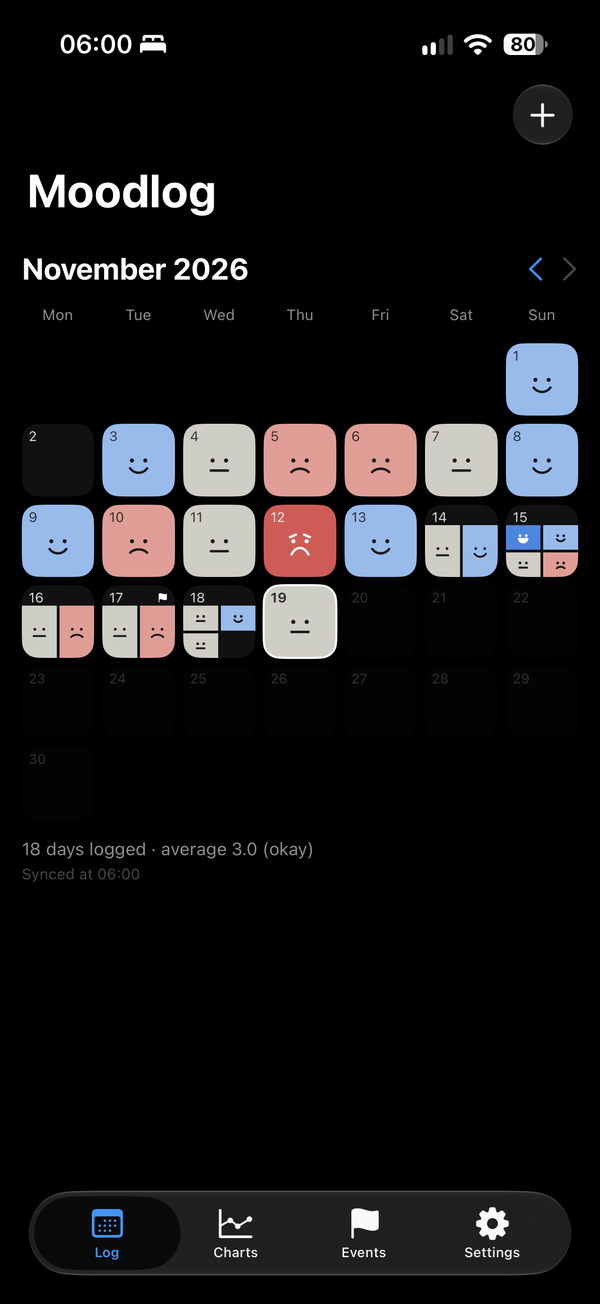
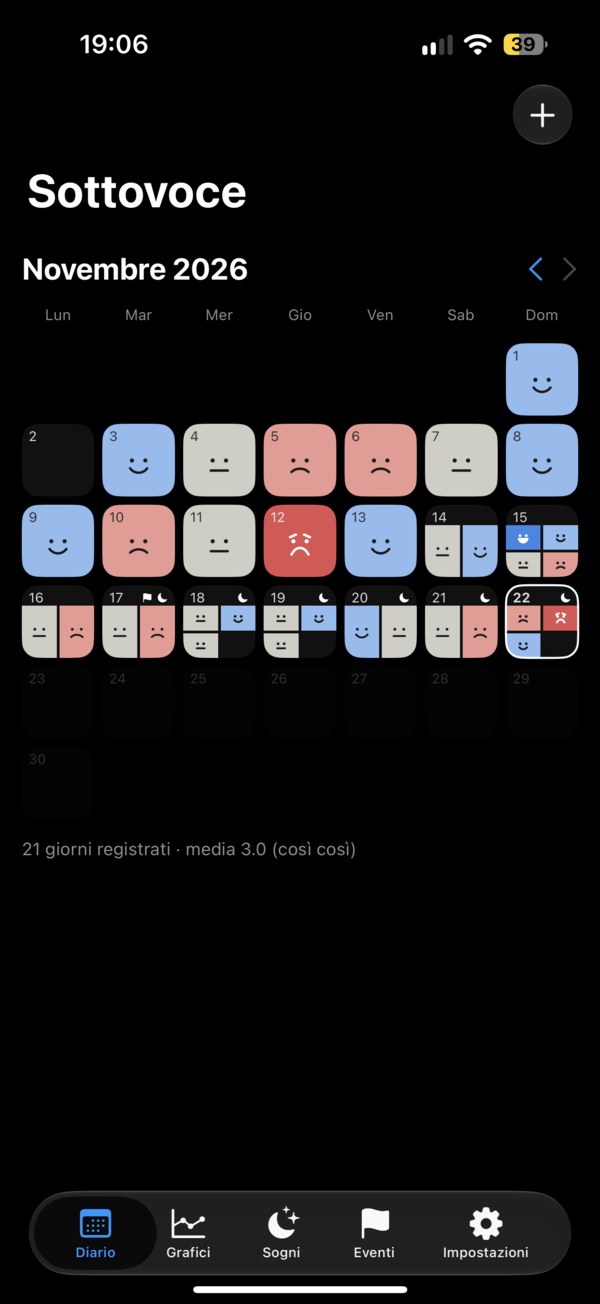
iPhone 2.0.1, Android 2.0.1: syncs no longer cut each other off
Opening the app started two syncs at once; the second cancelled the first
mid-request and then skipped itself, showing "can't reach the PC (cancelled)".
A running sync now has its own task, a sync asked for meanwhile runs right
after, and a deliberate cancel isn't shown as an error.

README: new iPhone screenshot with the Sottovoce name.

diff --git a/ios/Moodlog/SyncClient.swift b/ios/Moodlog/SyncClient.swift
@@ -61,6 +61,8 @@ enum SyncClient {
         let result: (Data, URLResponse)
         do {
             result = try await URLSession.shared.data(for: req)
+        } catch let e as URLError where e.code == .cancelled {
+            throw CancellationError()
         } catch {
             throw SyncError.unreachable(error.localizedDescription)
         }
@@ -138,6 +140,7 @@ final class SyncCoordinator {
     var healthStatus = ""
 
     @ObservationIgnored private var pending: Task<Void, Never>?
+    @ObservationIgnored private var again = false
 
     func syncSoon(_ store: AppStore, delay: Double) {
         guard UserDefaults.standard.bool(forKey: "autoSync"), SyncClient.isConfigured else { return }
@@ -147,14 +150,18 @@ final class SyncCoordinator {
                 try? await Task.sleep(nanoseconds: UInt64(delay * 1_000_000_000))
             }
             if Task.isCancelled { return }
-            await self?.run(store)
+            // The sync runs in a task of its own: a newer syncSoon only cancels the wait,
+            // never a sync that is already talking to the PC.
+            Task { await self?.run(store) }
         }
     }
 
     func run(_ store: AppStore) async {
-        if busy { return }
+        if busy {           // one at a time; sync once more when this one ends
+            again = true
+            return
+        }
         busy = true
-        defer { busy = false }
         do {
             let changes = try await SyncClient.sync(store)
             let when = Day.timeString(Date())
@@ -167,8 +174,15 @@ final class SyncCoordinator {
                     await sendHealth()
                 }
             }
+        } catch is CancellationError {
+            // stopped on purpose: keep the last status instead of showing an error
         } catch {
             status = error.localizedDescription
+        }
+        busy = false
+        if again {
+            again = false
+            await run(store)
         }
     }
 

diff --git a/android/app/src/main/java/io/github/akiig/moodlog/Sync.kt b/android/app/src/main/java/io/github/akiig/moodlog/Sync.kt
@@ -7,6 +7,7 @@ import android.provider.Settings
 import androidx.compose.runtime.getValue
 import androidx.compose.runtime.mutableStateOf
 import androidx.compose.runtime.setValue
+import kotlinx.coroutines.CancellationException
 import kotlinx.coroutines.CoroutineDispatcher
 import kotlinx.coroutines.CoroutineScope
 import kotlinx.coroutines.Dispatchers
@@ -267,18 +268,24 @@ class SyncCoordinator(
     var healthStatus by mutableStateOf("")
 
     private var pending: Job? = null
+    private var again = false
 
     fun syncSoon(store: AppStore, delayMs: Long) {
         if (!prefs.autoSync || !prefs.isConfigured) return
         pending?.cancel()
         pending = scope.launch {
             if (delayMs > 0) delay(delayMs)
-            run(store)
+            // The sync gets a job of its own: a newer syncSoon only cancels the wait,
+            // never a sync that is already talking to the PC.
+            scope.launch { run(store) }
         }
     }
 
     suspend fun run(store: AppStore) {
-        if (busy) return
+        if (busy) {         // one at a time; sync once more when this one ends
+            again = true
+            return
+        }
         busy = true
         try {
             val changes = client.sync(store)
@@ -290,10 +297,16 @@ class SyncCoordinator(
             }
         } catch (e: SyncException) {
             status = e.message ?: ""
+        } catch (e: CancellationException) {
+            throw e         // stopped on purpose: not an error to show
         } catch (e: Exception) {
             status = e.localizedMessage ?: e.javaClass.simpleName
         } finally {
             busy = false
+        }
+        if (again) {
+            again = false
+            run(store)
         }
     }
 
